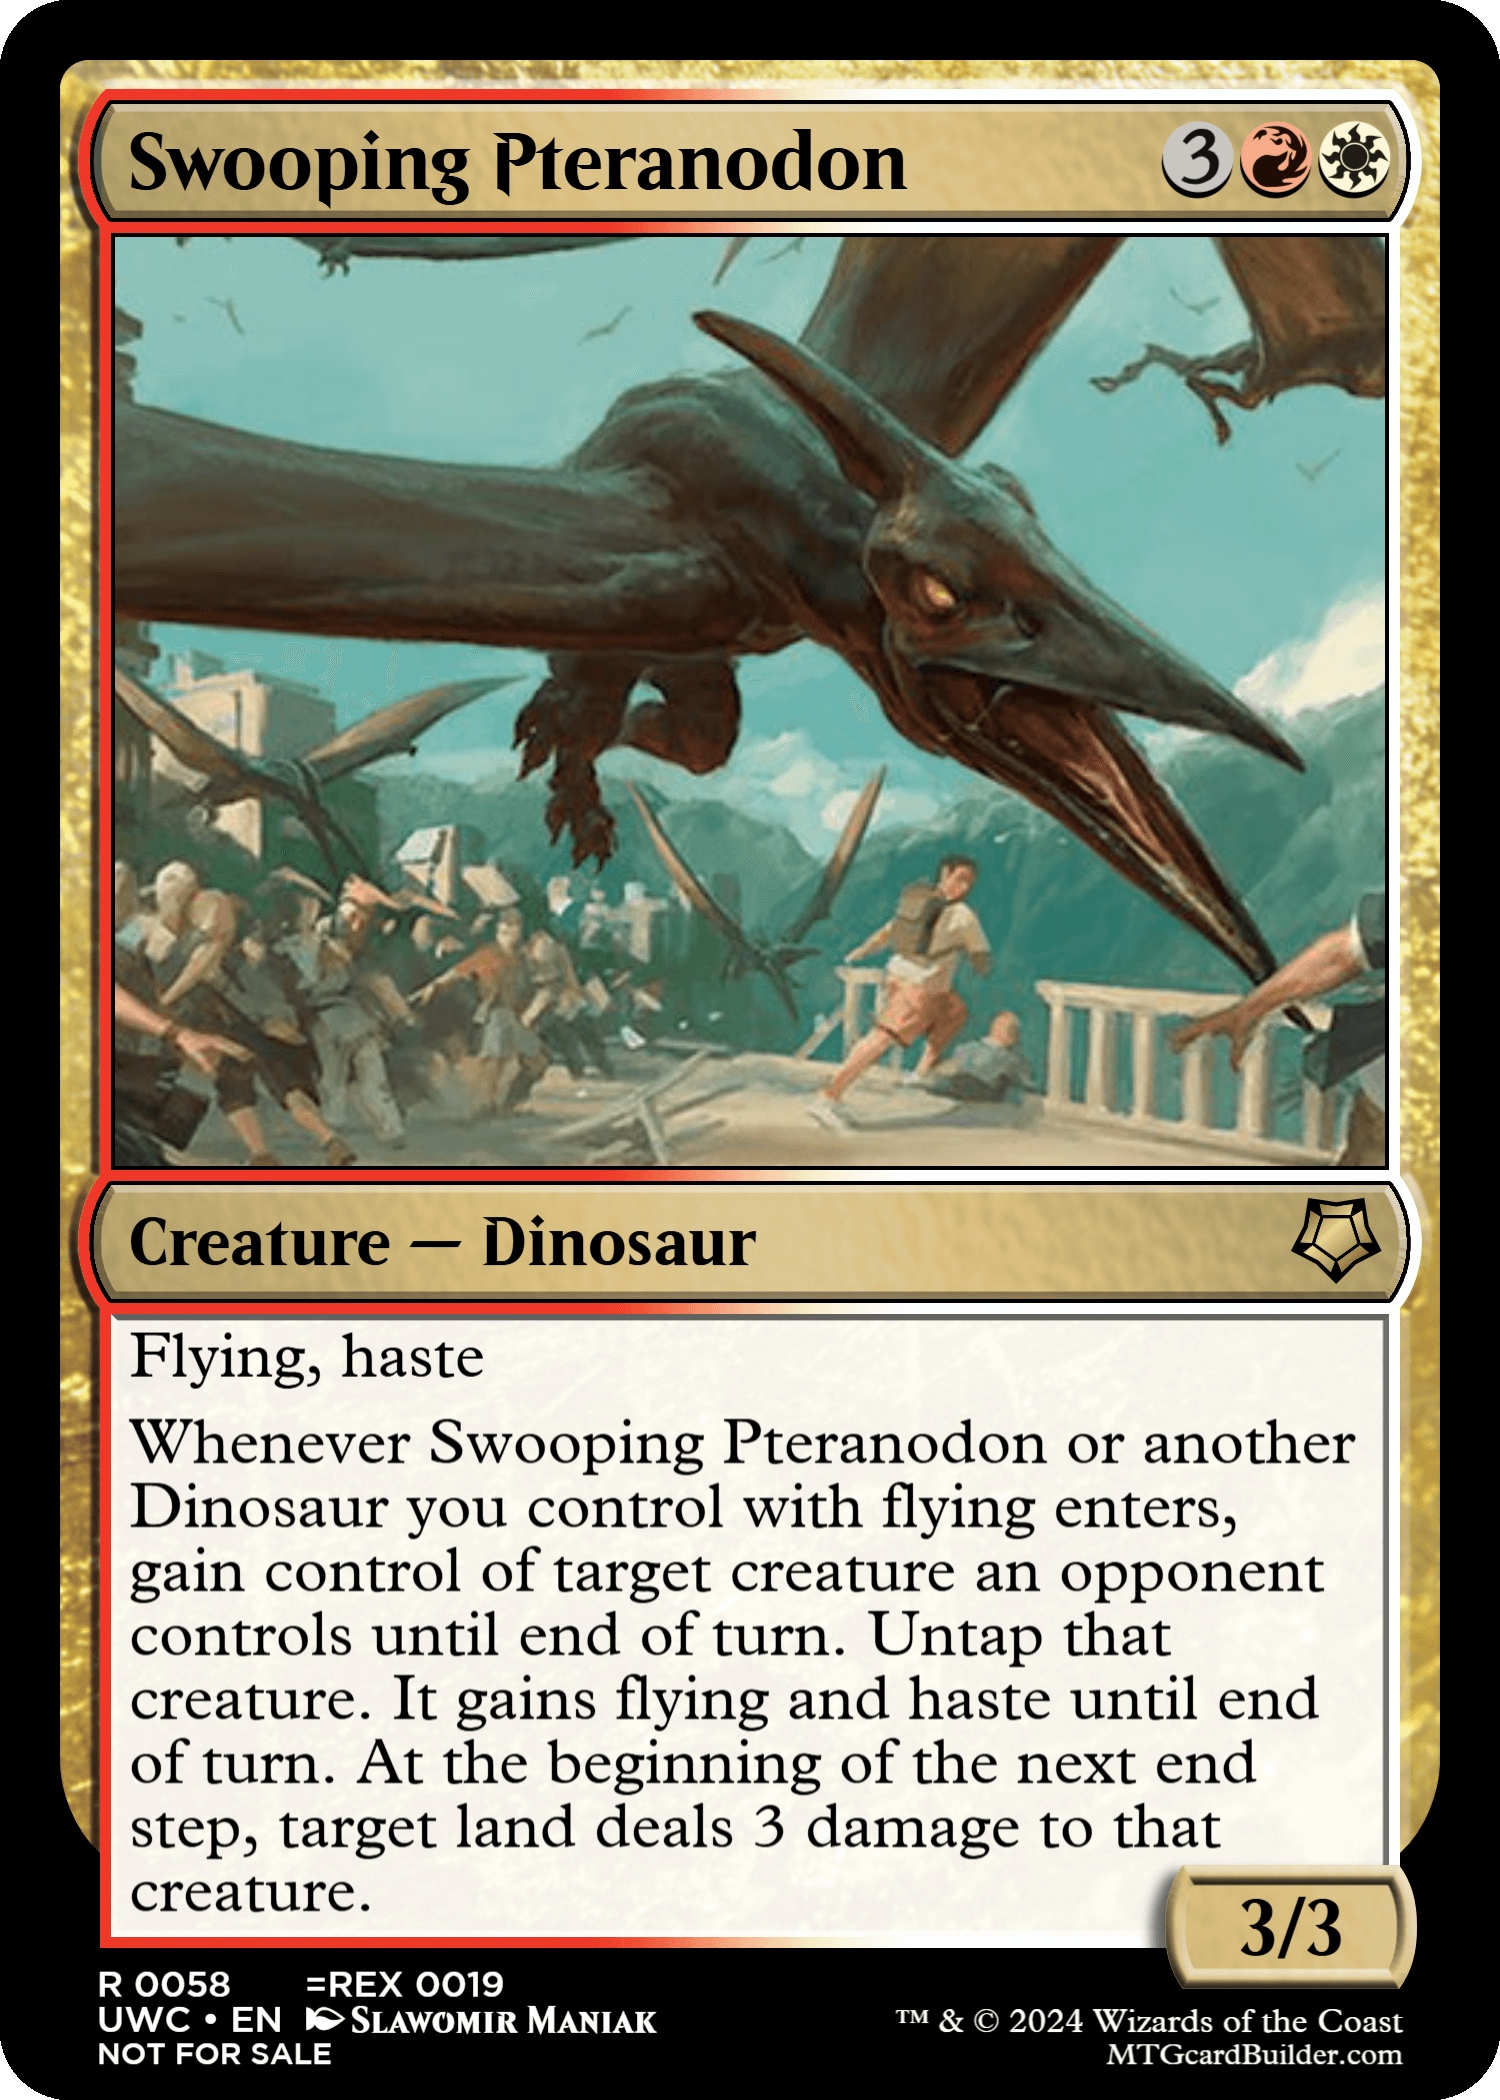
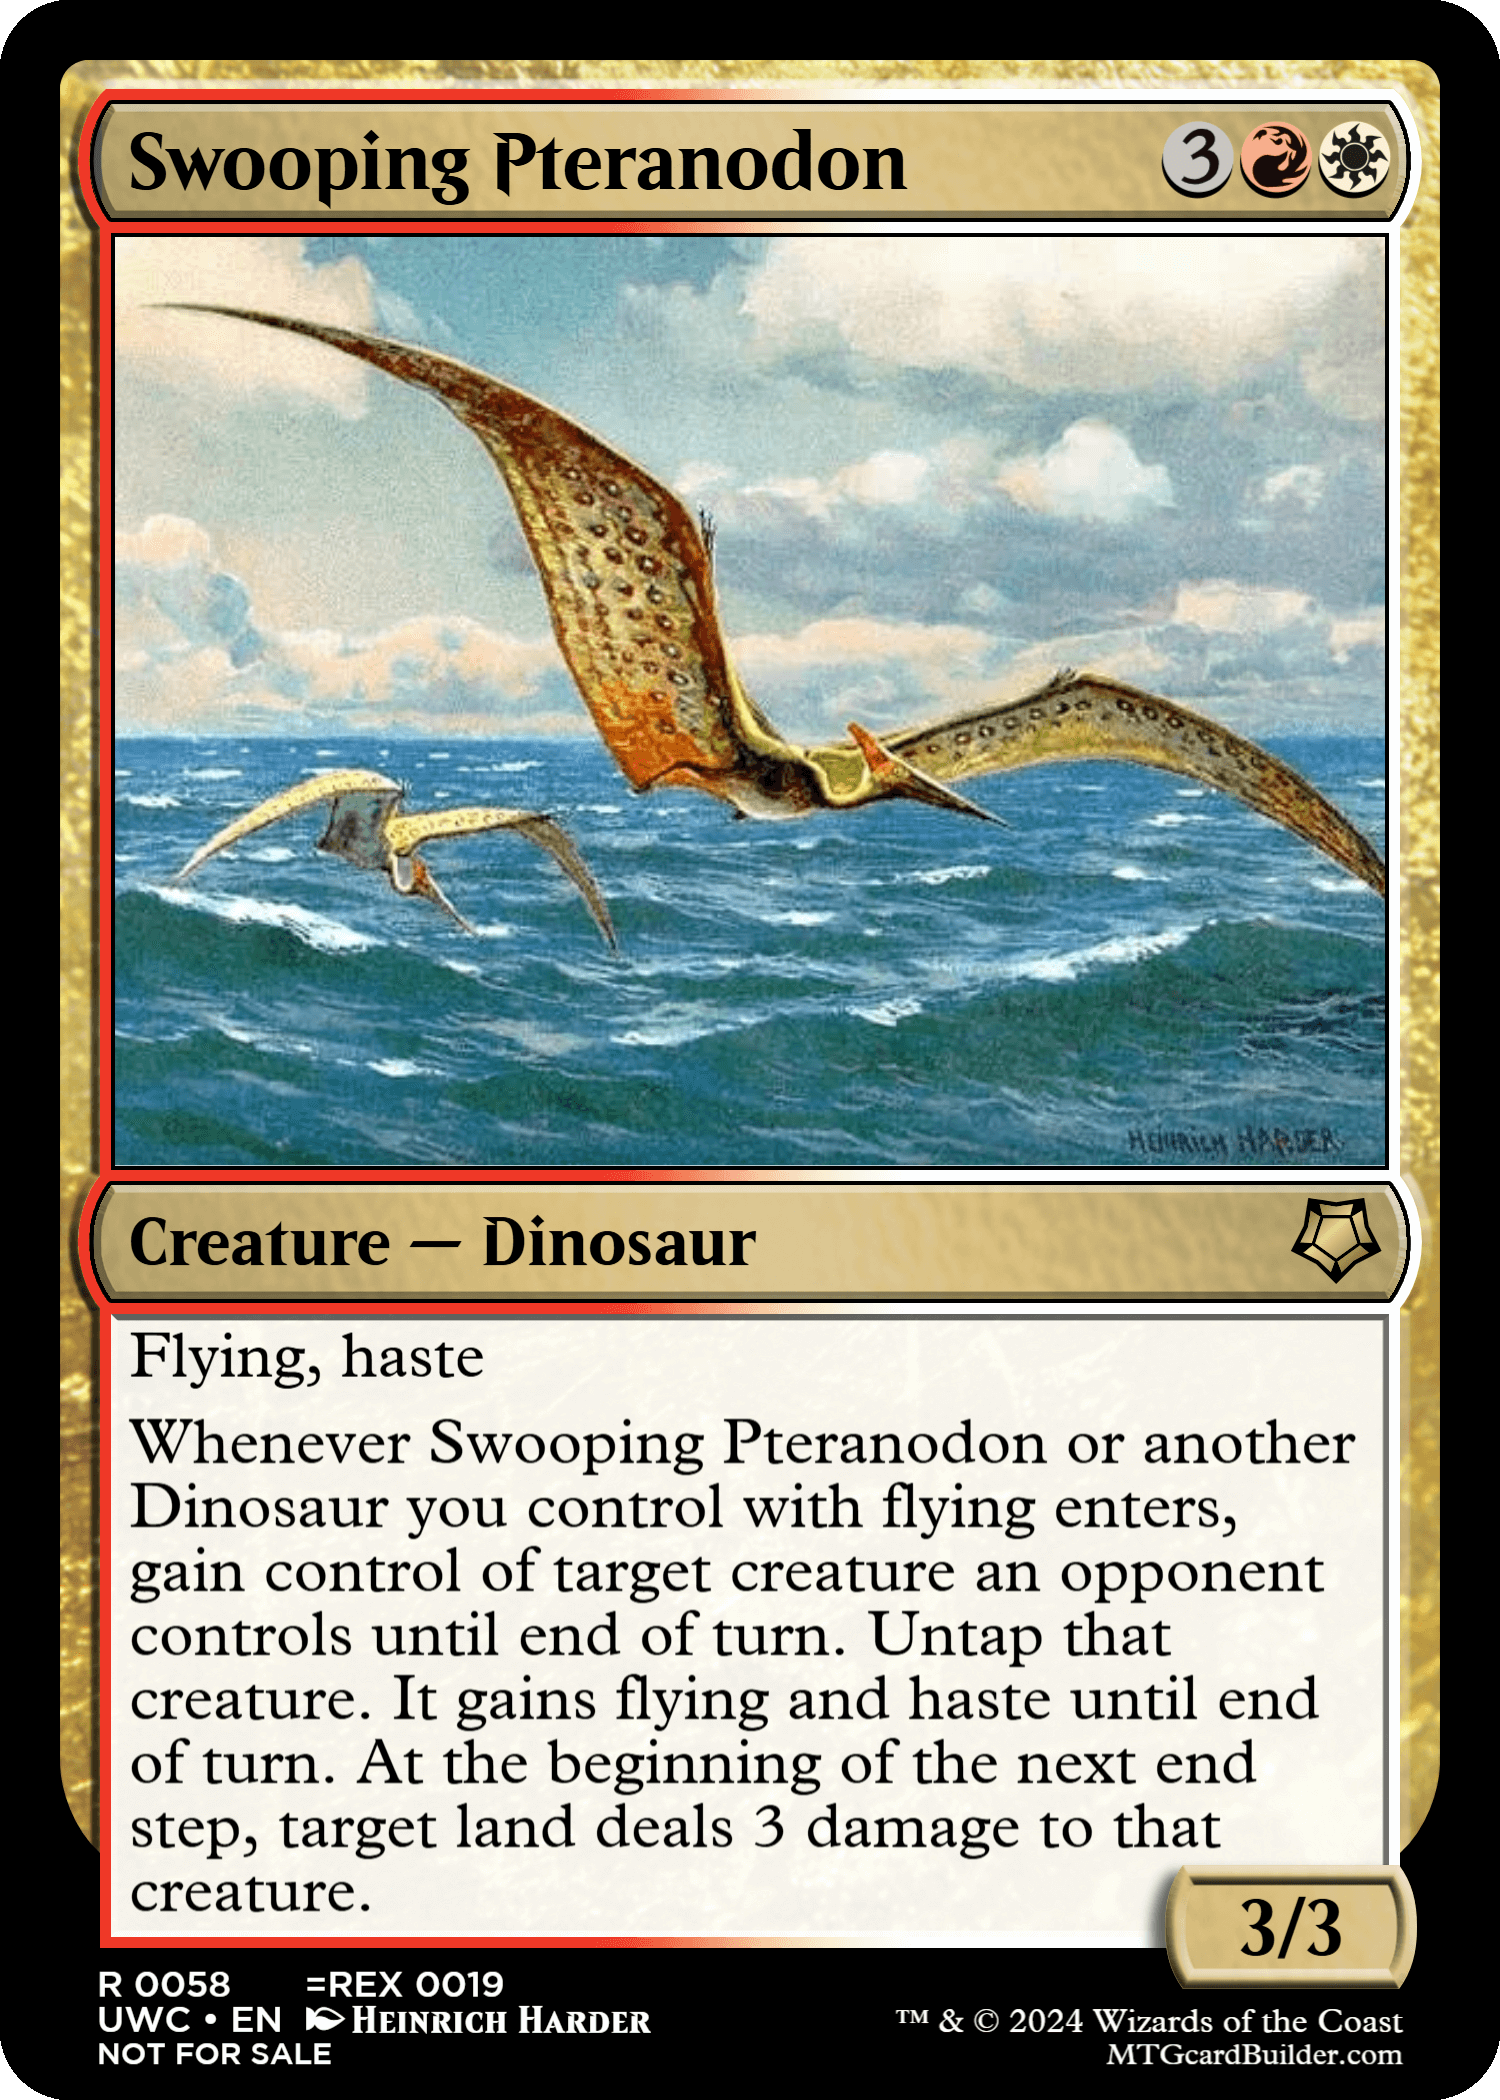
Update art for swooping pteranadon

diff --git a/gallery/galleryData.js b/gallery/galleryData.js
@@ -384,6 +384,10 @@ const data = {
       "contributionInfo": {
         "contributor": "madelson",
         "front": {
+          "artist": "Heinrich Harder",
+          "artistUrl": "https://en.wikipedia.org/wiki/Heinrich_Harder",
+          "artName": "Pterasaur",
+          "artUrl": "https://www.reddit.com/r/Dinosaurs/comments/bvcg2d/technically_not_a_dinosaur_but_a_pterosaur_i_know/",
           "mtgCardBuilderId": "206260"
         }
       },

diff --git a/docs/artists.md b/docs/artists.md
@@ -7,6 +7,7 @@ These artists have granted permission for their works to be used to make cards f
 | [Bachzim](https://www.artstation.com/bachzim) | |
 | [Charles R. Knight](https://en.wikipedia.org/wiki/Charles_R._Knight) | |
 | [Florian Herold](https://www.artstation.com/faherold) | |
+| [Heinrich Harder](https://en.wikipedia.org/wiki/Heinrich_Harder) | |
 | [Kristina Gehrmann](http://www.kristinagehrmann.com/) | |
 | [Nickolas Paris](https://nickolasparis.com/) | |
 | [Rembrandt](https://en.wikipedia.org/wiki/Rembrandt) | |
